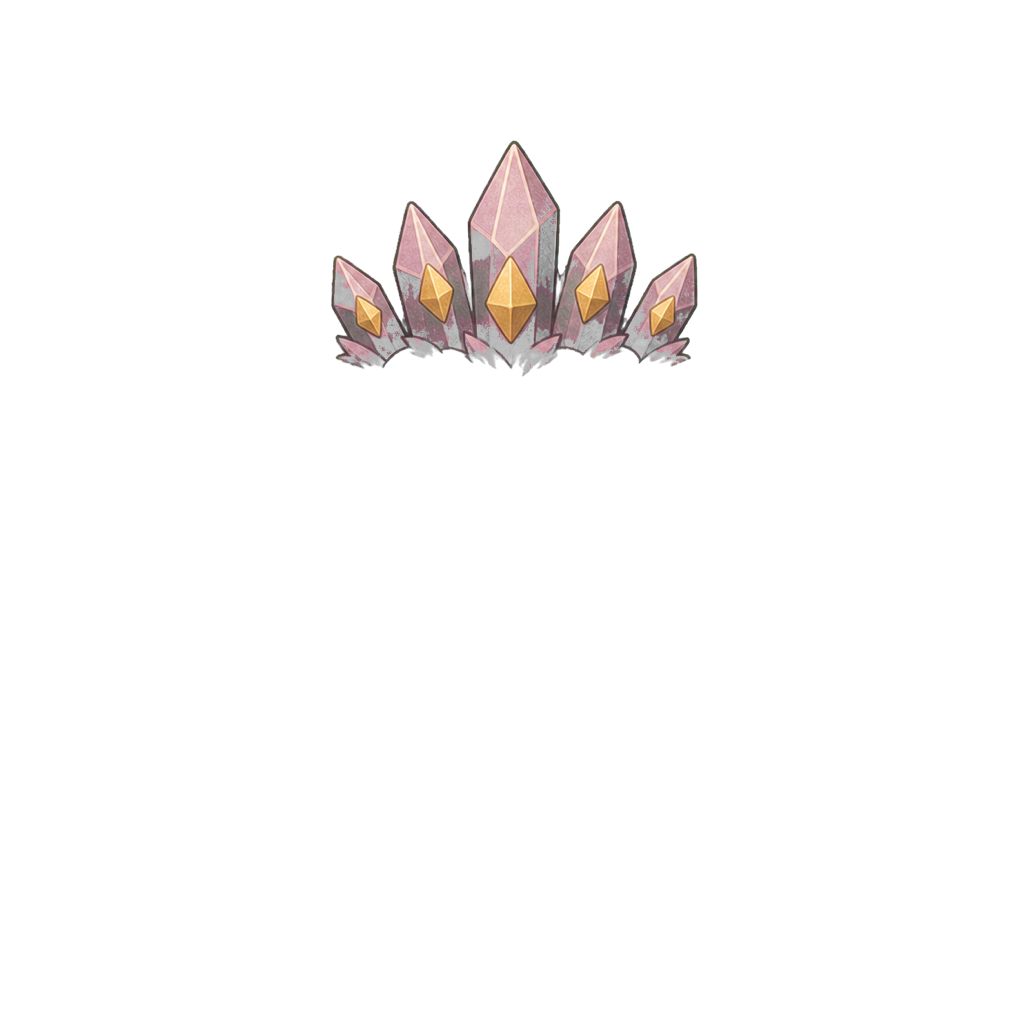
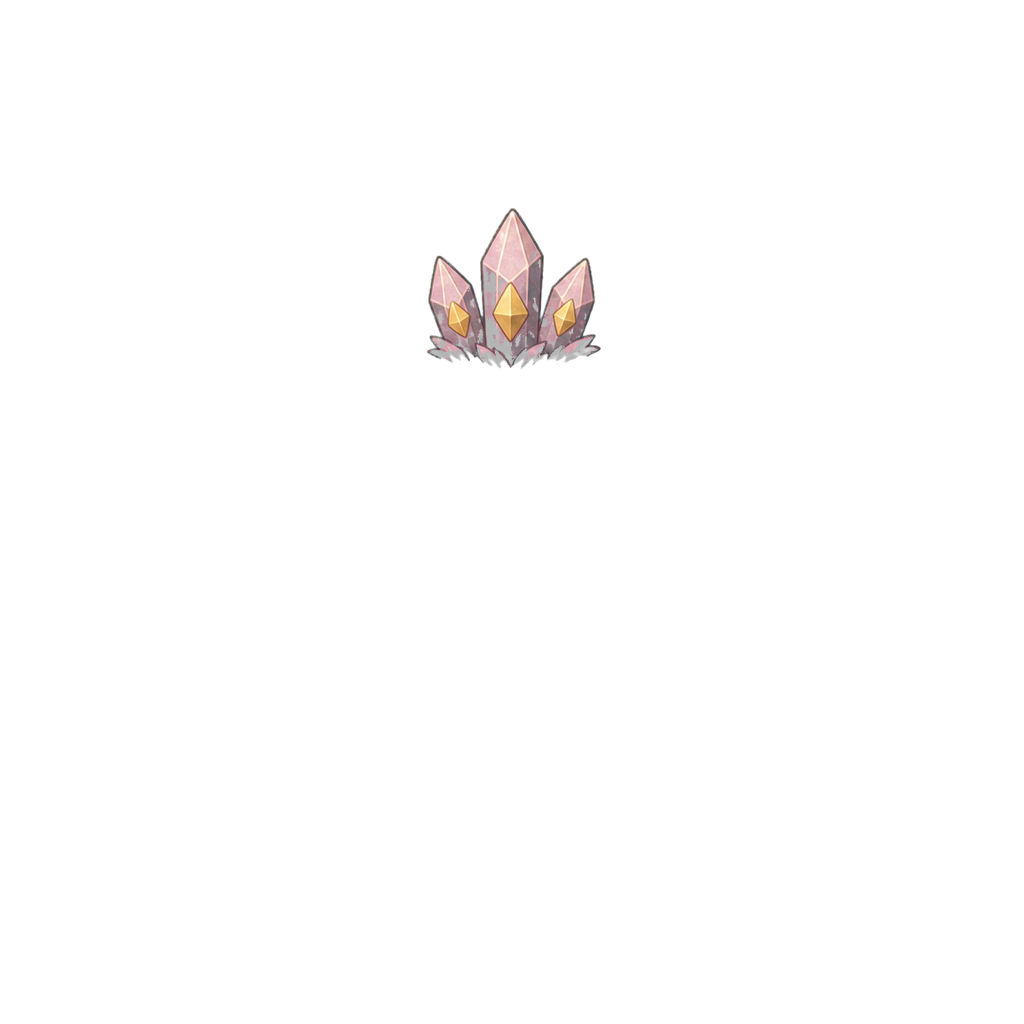
Refine Nova Swoop and Crystal Crest

Changed region(s): [[0.3125, 0.125, 0.6875, 0.375]]

diff --git a/src/customizationData.ts b/src/customizationData.ts
@@ -46,9 +46,9 @@ export const customizationAssets: CustomizationAsset[] = [
   },
   {
     id: 'lumipup-hair-nova-swoop', speciesId: 'lumipup', slot: 'hair', label: 'Nova Swoop',
-    description: 'A bright curled forelock with a starry tip.', icon: '🌟',
+    description: 'A compact swept fur tuft with a starry tip.', icon: '🌟',
     assetPath: '/pets/customization/lumipup/layers/hair-nova-swoop.png', layer: 30,
-    transform: { x: 0, y: 0, scale: 1 }, tintWithPalette: true, source: 'Starter Salon style', starter: true,
+    transform: { x: 0.14, y: 0.02, scale: 0.7 }, tintWithPalette: true, source: 'Starter Salon style', starter: true,
   },
   {
     id: 'lumipup-outfit-sunberry-tunic', speciesId: 'lumipup', slot: 'outfit', label: 'Sunberry Tunic',
@@ -94,9 +94,9 @@ export const customizationAssets: CustomizationAsset[] = [
   },
   {
     id: 'pebblit-hair-crystal-crest', speciesId: 'pebblit', slot: 'hair', label: 'Crystal Crest',
-    description: 'A proud row of polished crown crystals.', icon: '🔮',
+    description: 'Three small polished crystals nestled between the ears.', icon: '🔮',
     assetPath: '/pets/customization/pebblit/layers/hair-crystal-crest.png', layer: 30,
-    transform: { x: 0, y: 0, scale: 1 }, tintWithPalette: true, source: 'Starter Salon style', starter: true,
+    transform: { x: 0.09, y: -0.06, scale: 0.82 }, tintWithPalette: true, source: 'Starter Salon style', starter: true,
   },
   {
     id: 'pebblit-outfit-sunberry-tunic', speciesId: 'pebblit', slot: 'outfit', label: 'Sunberry Tunic',

diff --git a/docs/customization-art-pipeline.md b/docs/customization-art-pipeline.md
@@ -22,7 +22,7 @@ The launch-species kit establishes the temporary production contract for modular
 | Mossling | Head | `head-sunny-day-hat.png` | Own item 16 | `x .178`, `y -.097`, `scale .62` |
 | Lumipup | Base | `base.png` | Always | Full canvas |
 | Lumipup | Marking | `marking-comet-dust.png` | Starter | Full canvas |
-| Lumipup | Hair | `hair-nova-swoop.png` | Starter | Full canvas |
+| Lumipup | Hair | `hair-nova-swoop.png` | Starter | `x .14`, `y .02`, `scale .7` |
 | Lumipup | Outfit | `outfit-sunberry-tunic.png` | Own item 121 | `x .19`, `y .27`, `scale .6` |
 | Lumipup | Head | shared Sunny Day Hat | Own item 16 | `x .25`, `y -.05`, `scale .45` |
 | Cloudkip | Base | `base.png` | Always | Full canvas |
@@ -32,7 +32,7 @@ The launch-species kit establishes the temporary production contract for modular
 | Cloudkip | Head | shared Sunny Day Hat | Own item 16 | `x .31`, `y .02`, `scale .38` |
 | Pebblit | Base | `base.png` | Always | Full canvas |
 | Pebblit | Marking | `marking-geode-freckles.png` | Starter | Full canvas |
-| Pebblit | Hair | `hair-crystal-crest.png` | Starter | Full canvas |
+| Pebblit | Hair | `hair-crystal-crest.png` | Starter | `x .09`, `y -.06`, `scale .82` |
 | Pebblit | Outfit | `outfit-sunberry-tunic.png` | Own item 121 | `x .22`, `y .37`, `scale .56` |
 | Pebblit | Head | shared Sunny Day Hat | Own item 16 | `x .22`, `y -.02`, `scale .55` |
 
@@ -47,9 +47,9 @@ The built-in image generator used each approved neutral pet as the exact style a
 - Sunberry Speckles: symmetrical raspberry and golden cheek/belly freckles.
 - Sunberry Tunic: a front-half coral belly panel with open sides, separate shoulder tabs, cream stitching, and a leaf clasp. The rear collar and inside/back of the garment are intentionally omitted so the layer reads as worn clothing.
 - Sunny Day Hat: golden watercolor sunhat, coral ribbon, and stitched leaf accent.
-- Lumipup: Comet Dust starlight freckles, a golden Nova Swoop forelock, and a four-legged front/side Sunberry Tunic.
+- Lumipup: Comet Dust starlight freckles, a compact three-lock Nova Swoop with a tiny star tip that keeps the eyes clear, and a four-legged front/side Sunberry Tunic.
 - Cloudkip: Raindrop Blush cheek droplets, a blue Storm Curl crest, and a wing-friendly front Sunberry Tunic.
-- Pebblit: Geode Freckles, a lavender-and-gold Crystal Crest, and an upright front Sunberry Tunic with crystal cutouts.
+- Pebblit: Geode Freckles, a compact three-spike lavender-and-gold Crystal Crest that stays between the natural crystal ears, and an upright front Sunberry Tunic with crystal cutouts.
 
 Chroma sources were processed with the image-generation skill's soft-matte and despill helper, resized to 1024×1024, and checked as assembled pet composites before inclusion. Generated source images remain outside the deployed asset tree.
 